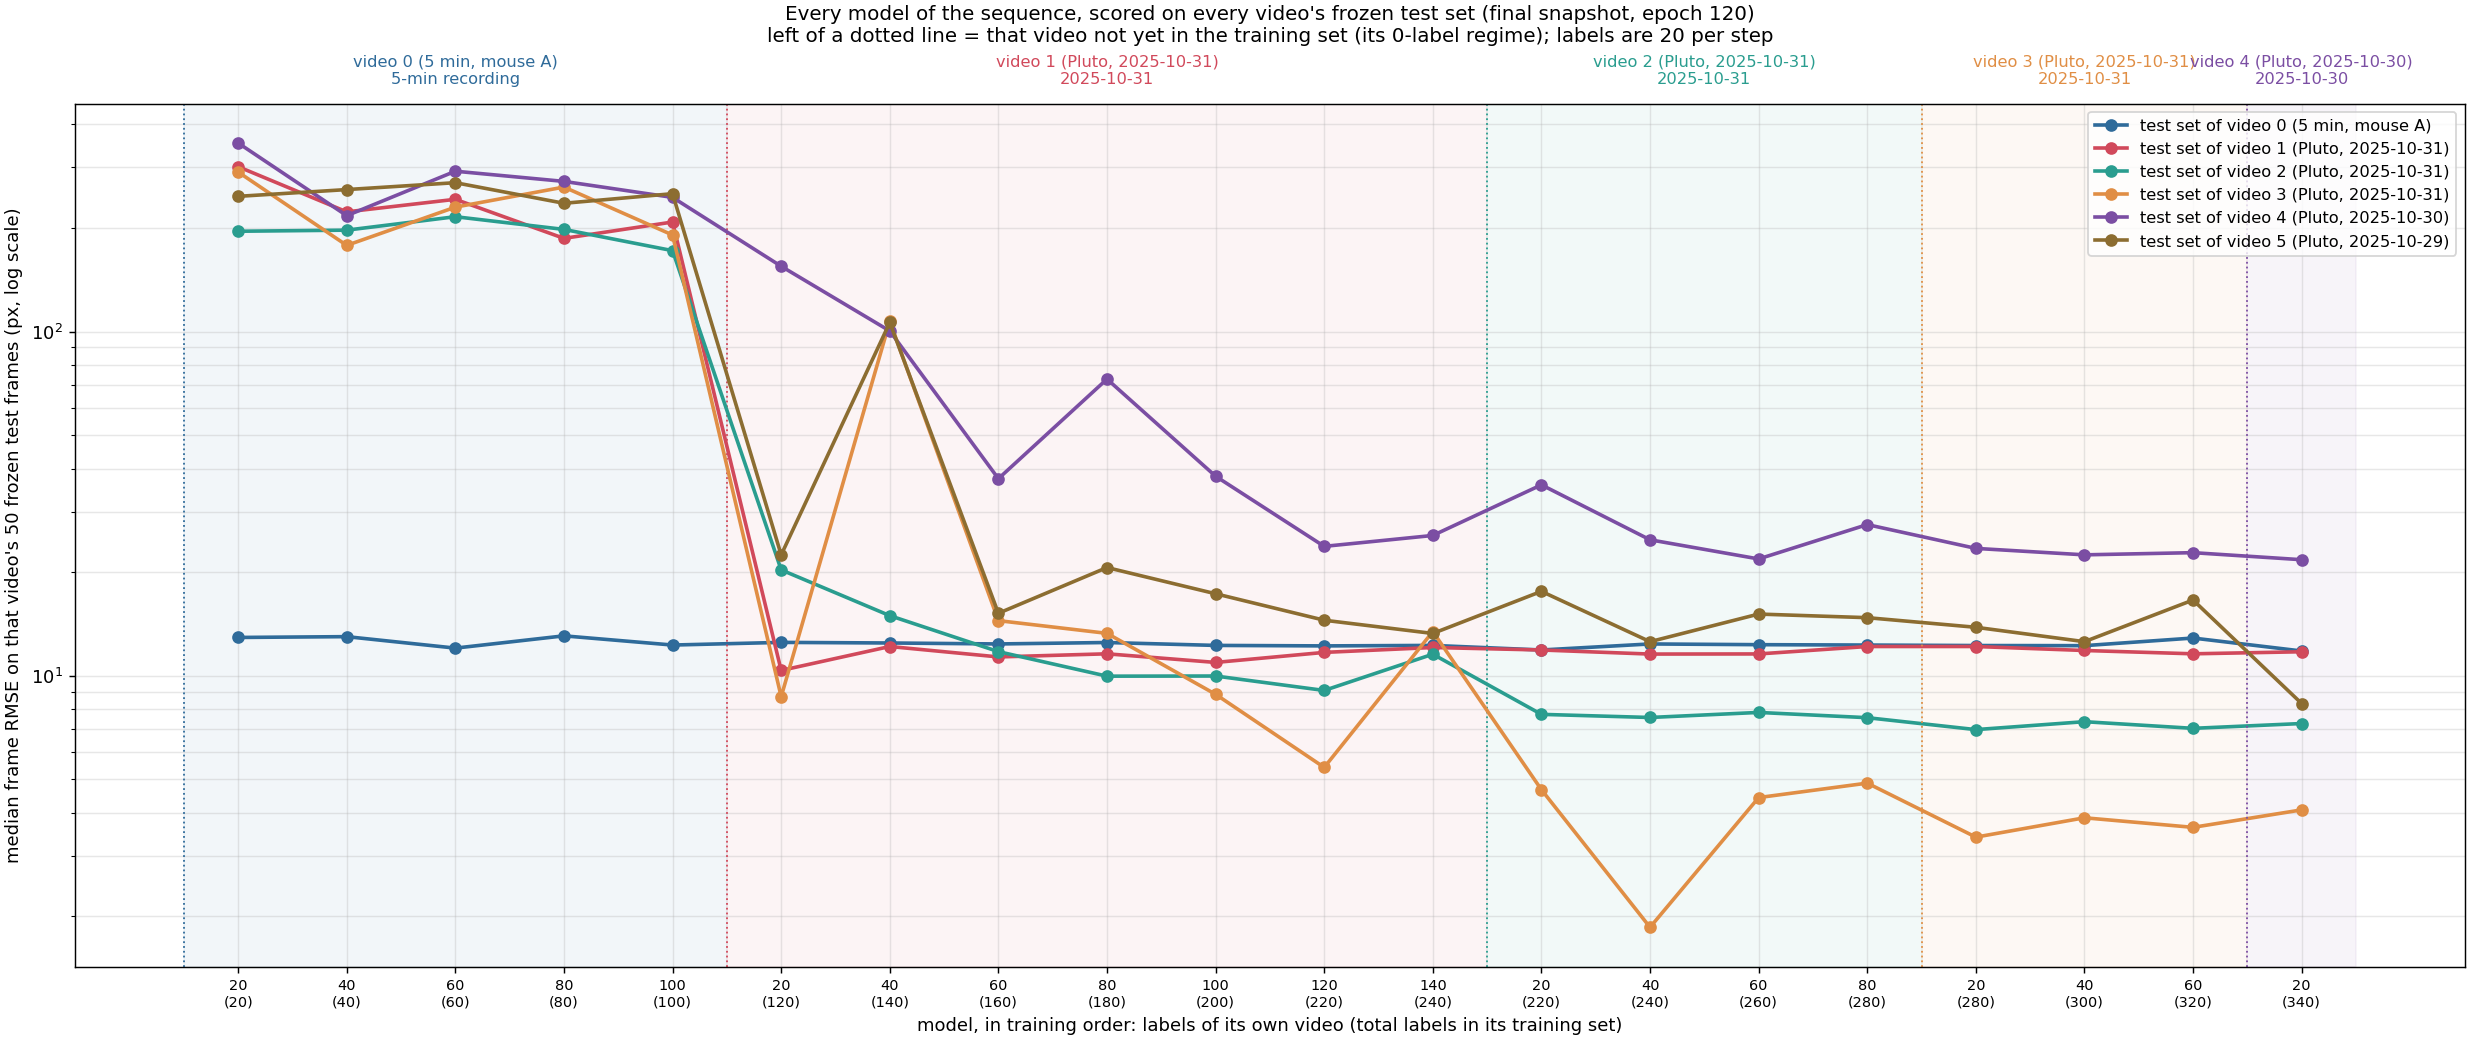
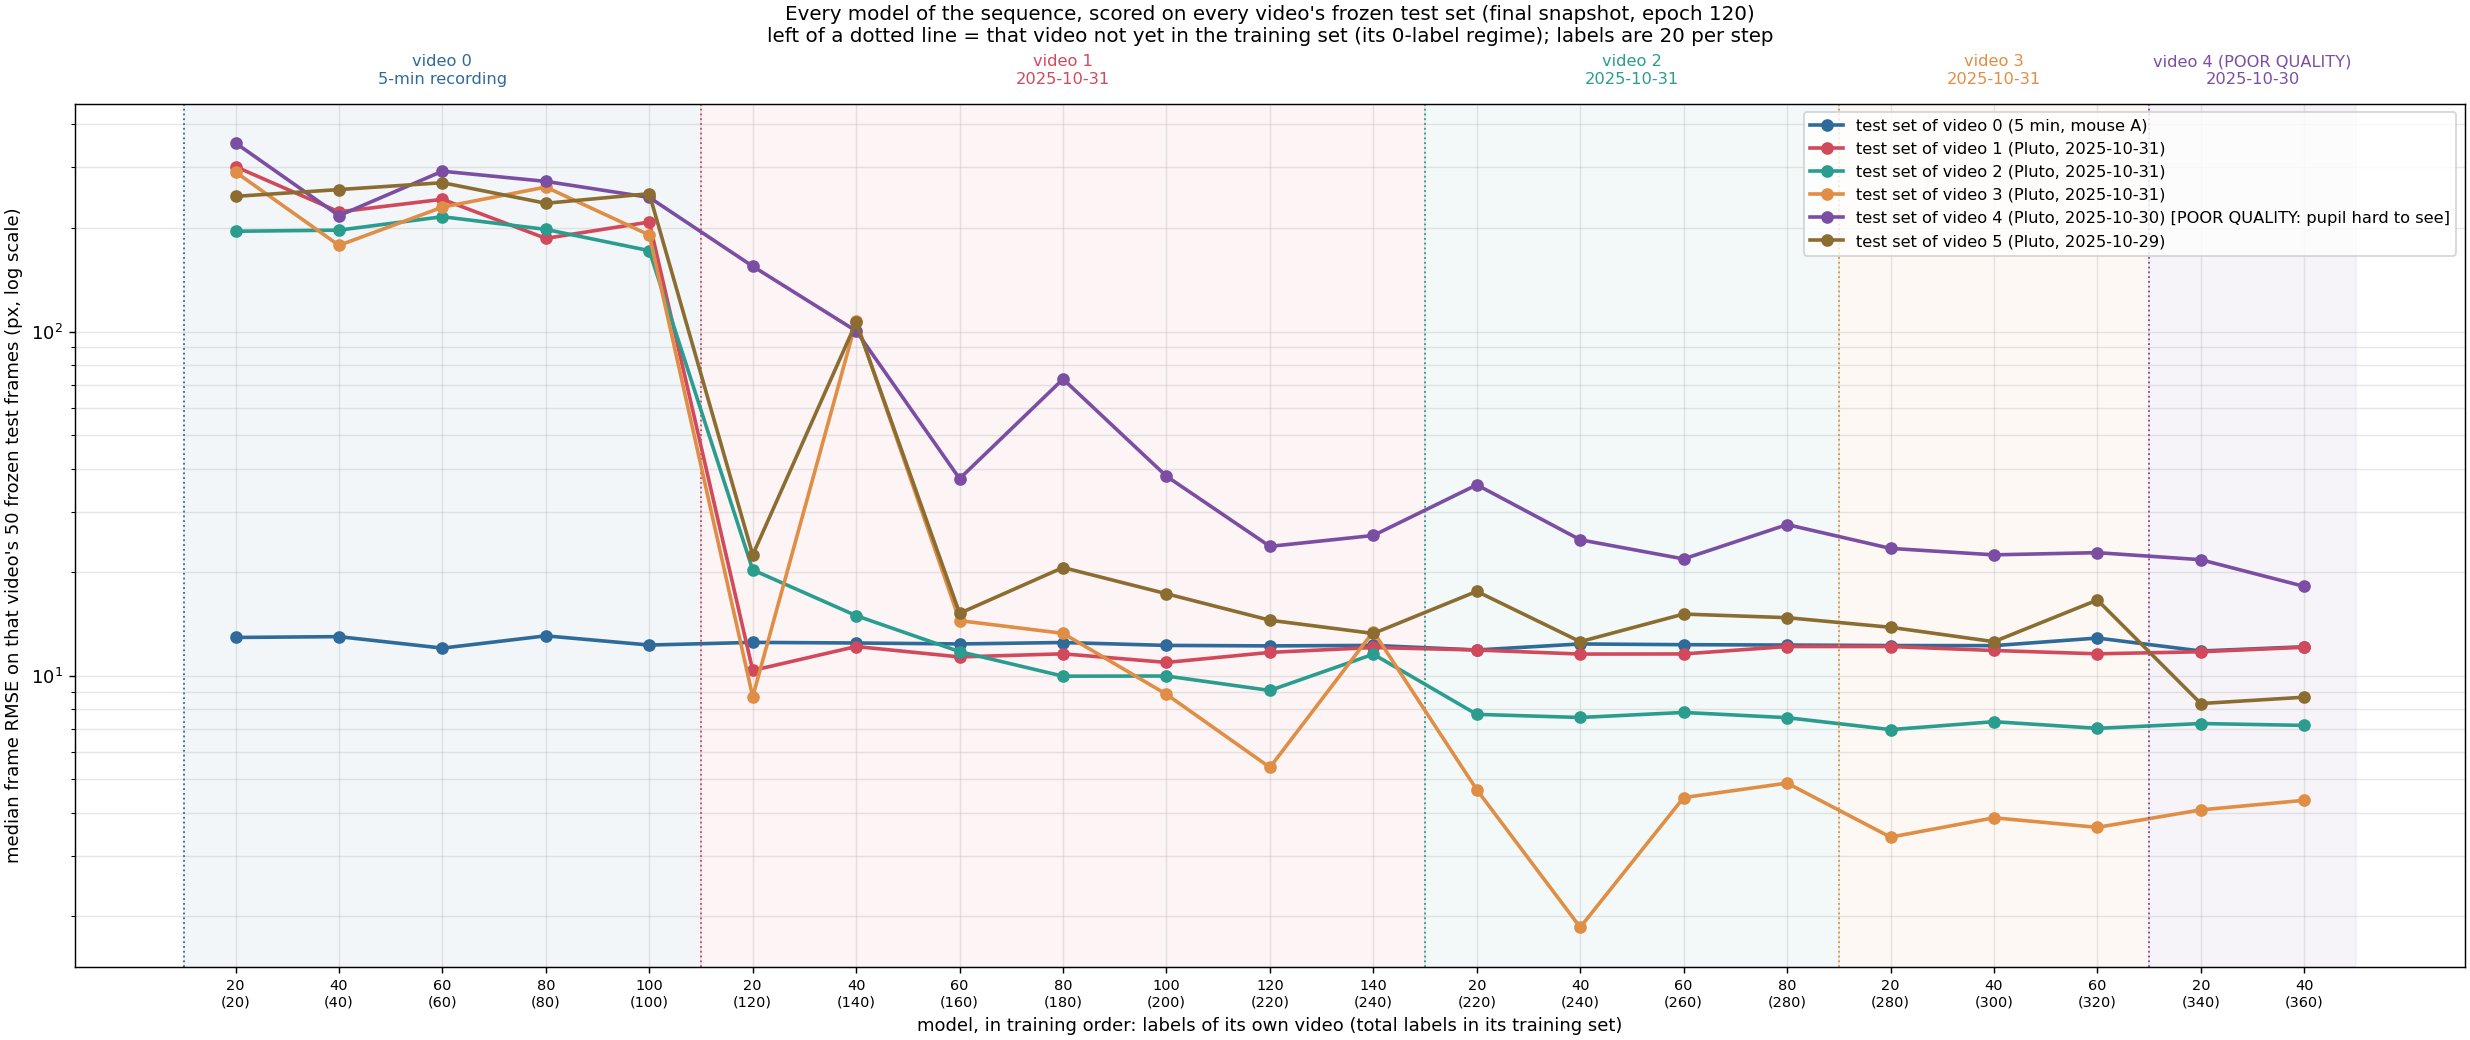
Flag video 4 (2025-10-30) as poor quality (pupil boundary hard to see by eye) in READMEs and cross-video figures; model 512 back-test

diff --git a/new_pupil_top_video_scaling/scripts/cross_video_eval.py b/new_pupil_top_video_scaling/scripts/cross_video_eval.py
@@ -36,6 +36,8 @@ VIDEOS = [
 ]
 # labels of a video that are carried into later videos (the "prior" used when the next video started)
 CARRIED = {"0_first5minvedio": 100, "1_20251031_Pluto_spont_1": 100, "2_20251031_pluton2": 60, "3_20251031_pluto3": 60}
+# videos the labeler judged hard to read by eye (pupil boundary barely visible); marked in the figures
+POOR_QUALITY = {"4_20251030_Pluto_spont_1"}
 PALETTE = ["#2F6B9A", "#D1495B", "#2A9D8F", "#E08E45", "#7B4EA3", "#8C6D31", "#444444"]
 
 
@@ -60,7 +62,8 @@ def test_units():
 
 def label_of(u):
     i = int(u.split("_")[0])
-    return f"video {i} (5 min, mouse A)" if i == 0 else f"video {i} (Pluto, {next(v[2] for v in VIDEOS if v[0] == u)})"
+    lab = f"video {i} (5 min, mouse A)" if i == 0 else f"video {i} (Pluto, {next(v[2] for v in VIDEOS if v[0] == u)})"
+    return lab + (" [POOR QUALITY: pupil hard to see]" if u in POOR_QUALITY else "")
 
 
 R = HERE / "results"
@@ -135,7 +138,8 @@ def plot(m):
             continue
         x0, x1 = g.model_idx.min() - 0.5, g.model_idx.max() + 0.5
         ax.axvspan(x0, x1, color=colors[u], alpha=0.06)
-        ax.text((x0 + x1) / 2, 1.02, f"{short[u]}\n{date}", transform=ax.get_xaxis_transform(), ha="center", va="bottom", fontsize=9, color=colors[u])
+        head = f"video {u.split('_')[0]}" + (" (POOR QUALITY)" if u in POOR_QUALITY else "")
+        ax.text((x0 + x1) / 2, 1.02, f"{head}\n{date}", transform=ax.get_xaxis_transform(), ha="center", va="bottom", fontsize=9, color=colors[u])
     ax.grid(alpha=0.3, which="both"); ax.legend(fontsize=9, loc="upper right")
     ax.set_title("Every model of the sequence, scored on every video's frozen test set (final snapshot, epoch 120)\n"
                  "left of a dotted line = that video not yet in the training set (its 0-label regime); labels are 20 per step", fontsize=11, pad=34)

diff --git a/new_pupil_top_video_scaling/4_20251030_Pluto_spont_1/results/README.md b/new_pupil_top_video_scaling/4_20251030_Pluto_spont_1/results/README.md
@@ -4,6 +4,10 @@ First recording of a different day (the earlier mouse-B videos 1-3 are all from 
 Protocol as for every video: 50 frozen test frames (final 10%), 20 validation frames, batches of 20; batch01 by
 k-means, later batches by jump rule + k-means. The video copy is `4_20251030_Pluto_spont_1.mp4` (local only).
 
+> **Poor-quality video (labeler's judgement, 2026-09-24).** In this recording the pupil boundary is hard to see even
+> by eye (dark, low-contrast eye; the pupil/iris edge is often not visible), so the human labels themselves are less
+> certain than in videos 1-3. Keep this in mind when comparing its errors with the other videos.
+
 ## Result so far (median frame RMSE over the 50 frozen test frames; final snapshot = epoch 120)
 
 | labels of this video | median | p90 | frames > 50 px | keypoints conf >= 0.6 | pool frames flagged by the jump rule |

diff --git a/new_pupil_top_video_scaling/results/README.md b/new_pupil_top_video_scaling/results/README.md
@@ -69,3 +69,9 @@ pupil points are ellipse endpoints under the new standard). Median |area error| 
 - Per-frame point selection has headroom (oracle 2.5%), but model confidence does not find it (7.9%, worse than
   4-point) - consistent with kaiwen's distrust of confidence. Any learned weighting would have to beat 3.7%.
 - Recommendation: switch the production area to the 4-point rule; `pupil_trace.py` is unchanged until that is decided.
+
+## Video quality flags
+
+- Video 4 (`4_20251030_Pluto_spont_1`, 2025-10-30): **poor quality** - the pupil boundary is hard to see even by
+  eye (labeler, 2026-09-24). Its errors are not directly comparable with the clear 2025-10-31 videos; marked in the
+  cross-video figures.
